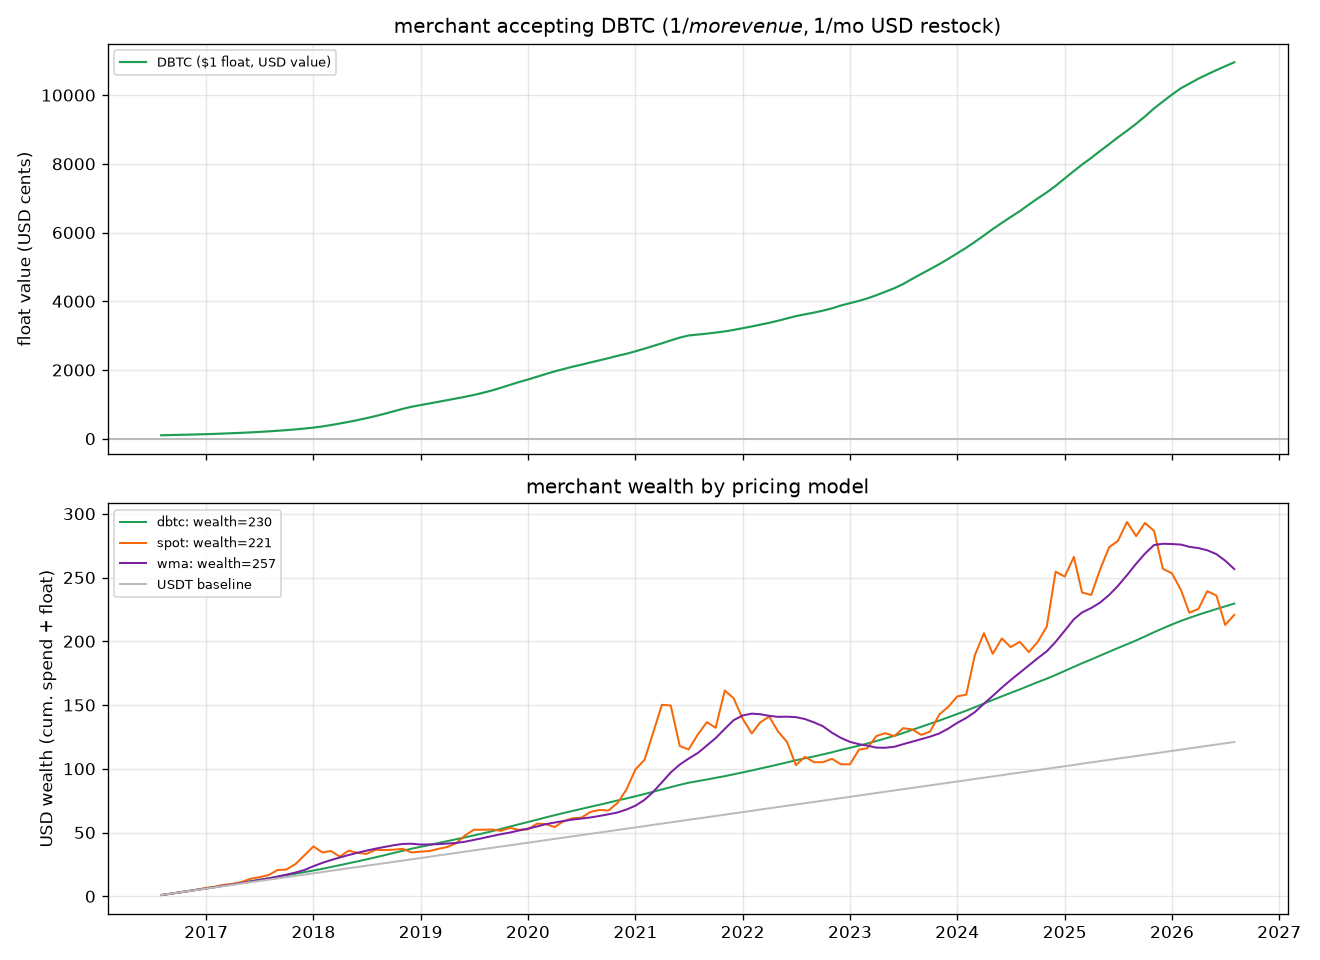
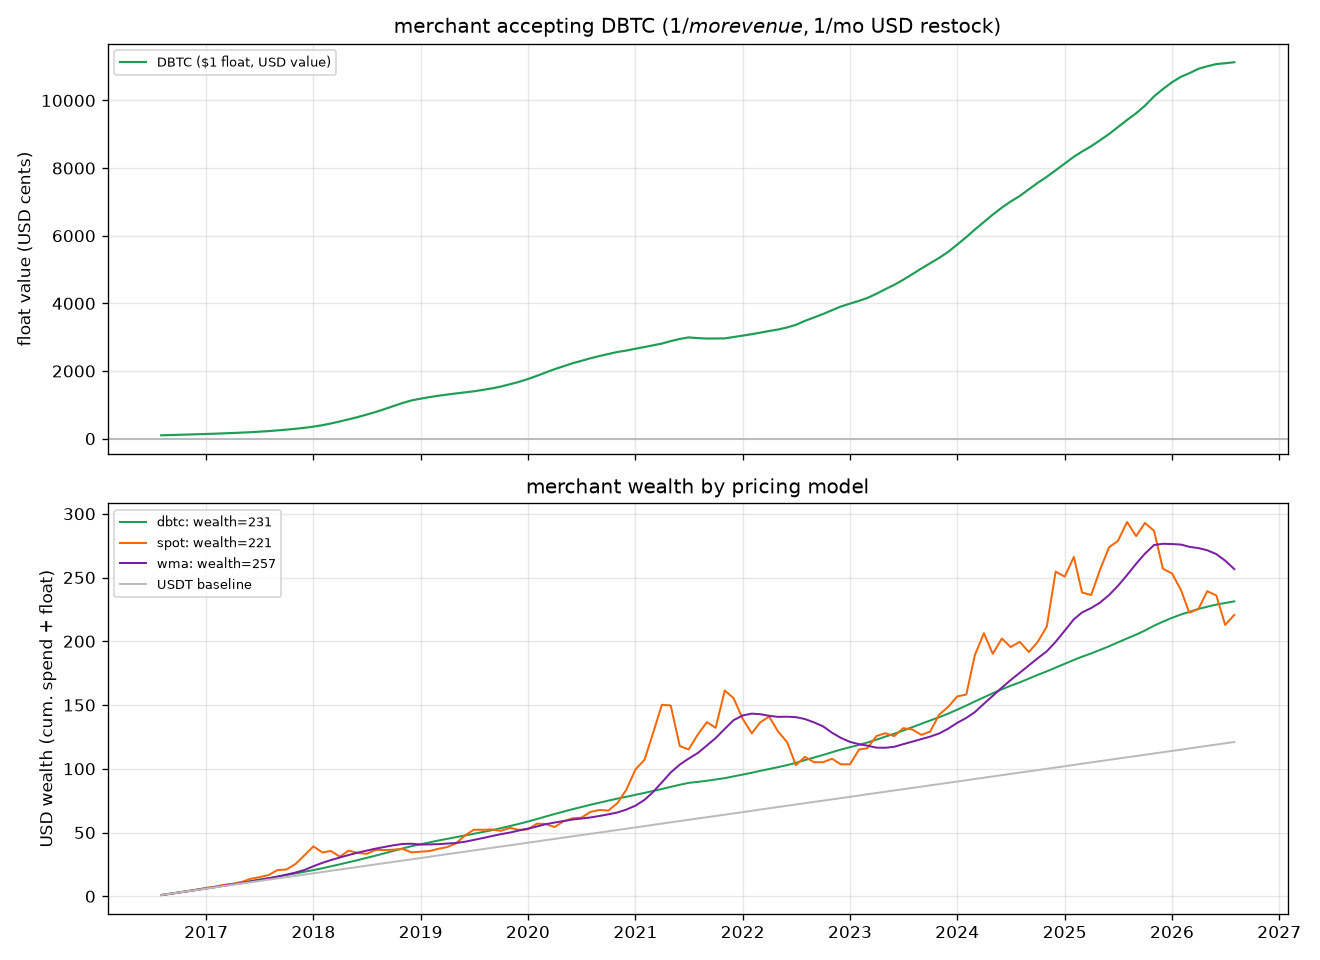
revert to 26 periods instead of 52

diff --git a/backtest.py b/backtest.py
@@ -259,7 +259,7 @@ def chart_merchant_window(df, since, b=0.73):
     return _save(fig, "08_merchant_window.png")
 
 
-def chart_window_vol_sweep(df, since, b, wrec: int = 52):
+def chart_window_vol_sweep(df, since, b, wrec: int = 26):
     """How DBTC's rolling volatility (and the liquidation-relevant tails) vary
     with the smoothing window W, against the 200wma (~SMA-1400) reference.
 
@@ -323,7 +323,7 @@ def chart_window_vol_sweep(df, since, b, wrec: int = 52):
                 xytext=(10, -22), textcoords="offset points", fontsize=9, color="k")
     a1.set_yscale("log")
     a1.set_ylabel("annualized vol (90d rolling, log)")
-    a1.set_title(f"DBTC rolling vol vs smoothing W — flat ~3–4% for any W; "
+    a1.set_title(f"DBTC rolling vol vs smoothing W — flat ~0.1–0.5% for any W; "
                  f"200wma ≈ {w200_med*100:.2f}% (trend vs range, not window-dependent)")
     a1.legend(fontsize=8, loc="upper right"); a1.grid(alpha=0.3, which="both")
 
@@ -338,14 +338,14 @@ def chart_window_vol_sweep(df, since, b, wrec: int = 52):
     a2.set_yscale("log")
     a2.set_ylabel("worst-case metric (log)")
     a2.set_xlabel("smoothing window W (difficulty periods)")
-    a2.set_title("wide W smooths the floors but deepens the spot/DBTC tail — W≈52p balances both")
+    a2.set_title("wide W smooths the floors but deepens the spot/DBTC tail — W≈26p balances both")
     a2.legend(fontsize=8, loc="upper right"); a2.grid(alpha=0.3, which="both")
 
     fig.tight_layout()
     p = _save(fig, "10_window_vol.png")
     print(f"\n[window vol sweep]  recommended W = {wrec}p ({wrec*14/365:.1f} yr); "
           f"200wma med vol = {w200_med*100:.2f}% vs DBTC med = "
-          f"{row_rec['vol_med'].iloc[0]*100:.2f}% (flat ~3-4% for any W)")
+          f"{row_rec['vol_med'].iloc[0]*100:.2f}% (flat ~0.1-0.5% for any W)")
     for _, r in R.iterrows():
         print(f"  W={int(r['W']):>4d}p  med vol={r['vol_med']*100:>6.2f}%  "
               f"priceDD={(1+r['price_dd']):>7.1%}  smDD={(1+r['gr_dd']):>7.1%}  "
@@ -383,8 +383,8 @@ def main() -> int:
                         help="launch date (default: today-Y years)")
     parser.add_argument("--since", default="2016-01-01",
                         help="data window used to fit & evaluate (default 2016-01-01, drops pre-2013 + 2013-15 drift)")
-    parser.add_argument("--smooth", type=int, default=52,
-                        help="difficulty smoothing window in periods of 2016 blocks (default 52 ≈ 2 years)")
+    parser.add_argument("--smooth", type=int, default=26,
+                        help="difficulty smoothing window in periods of 2016 blocks (default 26 ≈ 1 year)")
     parser.add_argument("--law-b", type=float, default=None,
                         help="override the fitted exponent b (default: auto-fit on --since)")
     parser.add_argument("--t0", default=None, help="deprecated; use --since")

diff --git a/dbtc/backtest.py b/dbtc/backtest.py
@@ -43,7 +43,7 @@ class ValueModel:
         self.series = self.series.sort_index()
 
 
-def build_value_models(df: pd.DataFrame, launch: str, diff_w: int = 52,
+def build_value_models(df: pd.DataFrame, launch: str, diff_w: int = 26,
                        wma_w: int = 350, a: float = FIT_A, b: float = FIT_B) -> dict[str, ValueModel]:
     """Return {name: ValueModel} for DBTC / wma(≈50w) / wma200 / spot from launch onwards.
 
@@ -152,7 +152,7 @@ def salary_cashflow(model: ValueModel, df: pd.DataFrame, launch: str,
     })
 
 
-def fit_law(df: pd.DataFrame, since: str, diff_w: int = 52) -> dict:
+def fit_law(df: pd.DataFrame, since: str, diff_w: int = 26) -> dict:
     """Fit the difficulty->price power law on data from ``since`` onwards.
 
     ``diff_w`` is the smoothing window in difficulty periods. Returns dict with
@@ -170,7 +170,7 @@ def fit_law(df: pd.DataFrame, since: str, diff_w: int = 52) -> dict:
     }
 
 
-def dbtc_series(df: pd.DataFrame, since: str, smooth: int = 52,
+def dbtc_series(df: pd.DataFrame, since: str, smooth: int = 26,
                 b: float | None = None) -> pd.Series:
     """DBTC price anchored to spot at ``since`` via difficulty^b.
 
@@ -186,7 +186,7 @@ def dbtc_series(df: pd.DataFrame, since: str, smooth: int = 52,
     return spot.iloc[0] * (sd / sd.iloc[0]) ** b
 
 
-def merchant_loss_metrics(df: pd.DataFrame, smooth: int = 52, since: str = "2014-01-01",
+def merchant_loss_metrics(df: pd.DataFrame, smooth: int = 26, since: str = "2014-01-01",
                           b: float | None = None) -> dict:
     """Merchant that prices goods in DBTC and pays USD costs monthly.
 
@@ -210,7 +210,7 @@ def merchant_loss_metrics(df: pd.DataFrame, smooth: int = 52, since: str = "2014
     }
 
 
-def collateral_metrics(df: pd.DataFrame, smooth: int = 52, since: str = "2014-01-01",
+def collateral_metrics(df: pd.DataFrame, smooth: int = 26, since: str = "2014-01-01",
                        b: float | None = None) -> dict:
     """Collateral ratio RBTC/DBTC and backing required never to liquidate.
 
@@ -243,7 +243,7 @@ def ratio_index(df: pd.DataFrame, since: str) -> pd.Index:
 
 def run_all(df: pd.DataFrame, launch: str, n_months: int = 120,
             float_months: int = 1, b: float | None = None,
-            smooth: int = 52) -> dict:
+            smooth: int = 26) -> dict:
     """Backtest all models x scenarios, return {key: summary}."""
     models = build_value_models(df, launch, a=0.0, b=(b or FIT_B), diff_w=smooth)
     out = {}

diff --git a/lending.py b/lending.py
@@ -60,8 +60,8 @@ def main() -> int:
     parser = argparse.ArgumentParser(description=__doc__)
     parser.add_argument("--since", default="2016-01-01",
                         help="anchor date for frozen constants (default 2016-01-01)")
-    parser.add_argument("--smooth", type=int, default=52,
-                        help="difficulty smoothing window in periods of 2016 blocks (recommended 52 ≈ 2 years)")
+    parser.add_argument("--smooth", type=int, default=26,
+                        help="difficulty smoothing window in periods of 2016 blocks (recommended 26 ≈ 1 year)")
     parser.add_argument("--collat", type=float, default=3.0,
                         help="collateral ratio (recommended 3.0)")
     parser.add_argument("--law-b", type=float, default=None,

diff --git a/dbtc/analyze.py b/dbtc/analyze.py
@@ -21,7 +21,7 @@ import pandas as pd
 WINDOWS_PERIODS = [1, 2, 4, 6, 8, 13, 20, 26, 39, 52, 78, 104]
 
 # Default smoothing window: 26 difficulty periods (≈ one year).
-DEFAULT_WINDOW = 52
+DEFAULT_WINDOW = 26
 
 # Default reference: 2010-07-18 is the first day with a nonzero price.
 DEFAULT_T0 = "2010-07-18"

diff --git a/README.md b/README.md
@@ -61,7 +61,7 @@ Fit (full-sample, best window):
 
 Now smoothing windows are measured in **difficulty periods** (2016 blocks, ~2 weeks
 each) instead of calendar days — the same unit the reference contract uses. 26 periods
-≈ 1 year; the flagship default is 52 periods ≈ 2 years (see below).
+≈ 1 year; the flagship default is 26 periods ≈ 1 year (see below).
 
 | smoothing | corr | R² | slope b | median \|err\| |
 |-----------|------|-----|---------|----------------|
@@ -118,7 +118,7 @@ annualised volatility of all four (log scale):
 
 **The headline result:** DBTC is dramatically *smooth*. Rolling vol peaks in the
 early 2012–2015 era at ~10–20% for all series, but after ~2018 DBTC sits reliably
-**at ~0.1–0.5%** (block-interpolated, `--smooth 52`) while spot and even the 50w/200w SMAs
+**at ~0.1–0.5%** (block-interpolated, `--smooth 26`) while spot and even the 50w/200w SMAs
 swing 30–80%. DBTC's daily moves stay tiny because the block-window mean drifts
 continuously — the old retarget-day step (~2.8% single-day jump) is gone — so it is a
 genuine ultra-low-vol stable accounting unit — at the cost of trailing spot's returns.
@@ -134,9 +134,9 @@ A business that passes revenue straight through (prices in USD, restocks in USD 
 has only its working-capital buffer exposed. Top panel: the $1 float's USD value. Bottom:
 cumulative wealth vs USDT baseline.
 
-Key figure: **DBTC** holds the float's max drawdown at only **0.0%** vs **−75%** for
+Key figure: **DBTC** holds the float's max drawdown at only **−1.1%** vs **−75%** for
 spot (the 50w SMA anchor sits between at −54%). A monthly-converted merchant is effectively
-neutral-to-mildly-positive, because DBTC is monotonic since 2016 while barely ever drawing down
+neutral-to-mildly-positive, because DBTC barely ever draws down
 (`05_float_sensitivity.png` shows bigger floats magnify both win and risk).
 
 ### Salary: a worker paid fixed DBTC/month
@@ -144,7 +144,7 @@ neutral-to-mildly-positive, because DBTC is monotonic since 2016 while barely ev
 ![salary panel](out/backtest/03_salary.png)
 
 A yearly-re-signing salary lands at **~1.3x USDT** — DBTC behaves like a gently-upward,
-low-vol USDT (income std ~0.3 $/mo). A fixed lead contract captures the underlying asset
+low-vol USDT (income std ~0.4 $/mo). A fixed lead contract captures the underlying asset
 appreciation, but inherits its full swings. `06_cumulative.png` collapses this to cumulative
 multiple-vs-USDT across the four model×renewal combos.
 
@@ -165,77 +165,78 @@ max daily move ≈ 0.4% and rolling 90d vol of **~0.1%**.
 
 | W (periods) | ~years | median 90d vol | DBTC price max DD | smooth-diff max DD (floor) | min spot/DBTC |
 |-------------|--------|----------------|-------------------|----------------------------|---------------|
-| 13p | 0.5 | 0.47% | −9.8% | −15.0% | 0.35 |
-| 26p | 1.0 | 0.21% | −1.0% | −1.7% | 0.37 |
-| **52p** | **2.0** | **0.12%** | **0.0%** | **0.0%** | **0.34** |
-| 78p | 3.0 | 0.09% | 0.0% | 0.0% | 0.33 |
-| 104p | 4.0 | 0.08% | 0.0% | 0.0% | 0.32 |
+| 13p | 0.5 | 0.46% | −10.2% | −15.0% | 0.30 |
+| **26p** | **1.0** | **0.22%** | **−1.2%** | **−1.7%** | **0.32** |
+| 52p | 2.0 | 0.13% | 0.0% | 0.0% | 0.29 |
+| 78p | 3.0 | 0.09% | 0.0% | 0.0% | 0.28 |
+| 104p | 4.0 | 0.08% | 0.0% | 0.0% | 0.28 |
 
 Block interpolation flattens the story:
 
 - **Vol & floors improve monotonically with W** — at 26p DBTC's 90d vol is already *below*
-  the 200wma (0.21% vs 0.19%); at 52p+ the price has **no historical drawdown at all**
+  the 200wma (0.22% vs 0.19%); at 52p+ the price has **no historical drawdown at all**
   (worst smoothed-difficulty drawdown ≈ 0.0%), i.e. effectively monotonic. There is no
   longer a "too big W" penalty on the difficulty side.
 - **The spot/DBTC tail is the only thing that gets worse** with W — a wider, flatter window
-  stands further above the market at a spot crash (min `spot/DBTC` falls 0.37 → 0.32), and
+  stands further above the market at a spot crash (min `spot/DBTC` falls 0.32 → 0.28), and
   that is what sets the collateral requirement, not difficulty itself.
 
-**Recommendation: W = 52p (≈ 2 years).** It gives sub-200wma volatility (0.12% vs 0.19%),
-a fully monotonic price since 2016 (0.0% drawdown), and keeps the spot/DBTC tail at a
-tolerable 0.34. Wide enough that retarget steps wash out, narrow enough that the window
-still tracks the difficulty trend rather than a flat average.
+**Recommendation: W = 26p (≈ 1 year).** It gives sub-200wma volatility (0.22% vs 0.19%) with
+only a −1.7% worst-ever smoothed-difficulty drawdown since 2016, and keeps the spot/DBTC
+tail at its best (min 0.32, the fewest collateral needed). It's the fastest window that
+still washes out retarget steps, so the price responds to the difficulty trend with the
+least lag — a one-year lookback rather than two.
 
 ```bash
-./.venv/bin/python backtest.py          # defaults to --smooth 52 → prints the sweep + 10_window_vol.png
+./.venv/bin/python backtest.py          # defaults to --smooth 26 → prints the sweep + 10_window_vol.png
 ```
 
 ### Collateral & liquidation (`lending.py`)
 
 The vault's liquidation trigger is **pure difficulty**: you're liquidated when smoothed
-difficulty falls to `(1/CR)^(1/b)` of its mint-time level (≈ −18% at CR=3). With
-block-interpolated smoothing the last-since-2016 worst cases become tiny by ~2y windows:
+difficulty falls to `(1/CR)^(1/b)` of its mint-time level (≈ −19.5% at CR=3). With
+block-interpolated smoothing the worst cases become tiny by ~1y windows:
 
 | smoothing W | worst month | worst 12-mo | months < launch | max price DD |
 |-------------|-------------|--------------|-----------------|--------------|
-| 13p | −3.1% | +3.5% | 0% | −9.8% |
-| 26p | −0.6% | +11.0% | 0% | −1.0% |
-| **52p** | **+0.4%** | **+18.8%** | **0%** | **0.0%** |
-| 39p | 0.0% | +15.3% | 0% | 0.0% |
-| 78p | +0.7% | +24.3% | 0% | 0.0% |
+| 13p | −3.3% | +3.7% | 0% | −10.2% |
+| **26p** | **−0.6%** | **+11.5%** | **0%** | **−1.2%** |
+| 39p | 0.0% | +16.1% | 0% | 0.0% |
+| 52p | +0.4% | +19.7% | 0% | 0.0% |
+| 78p | +0.7% | +25.6% | 0% | 0.0% |
 
-At 52p the smoothed-difficulty path since 2016 never draws down (monotonic), so the pure
-difficulty floor **never comes close**. The real risk is the **spot/difficulty spread**: at
-the worst point spot/DBTC fell to ≈0.34× while smoothed difficulty kept climbing. That
-deviation — not difficulty — sets the collateral requirement:
+At 26p the smoothed-difficulty path since 2016 barely ever draws down (worst −1.7%,
+`2021-08`), so the pure difficulty floor never comes close. The real risk is the
+**spot/difficulty spread**: at the worst point spot/DBTC fell to ≈0.32× while smoothed
+difficulty kept climbing. That deviation — not difficulty — sets the collateral requirement:
 
 ![collateral ratio over time](out/backtest/09_collateral_ts.png)
 
 Across W (`07_w_sweep.png`, `08_merchant_window.png`): 26p+ keeps worst-month drawdowns
 ≤ ~1%, and the never-liquidation backing is driven by how much *smooth* `spot/DBTC`
-diverges. Anchored 2016 you need `≈2.9x` backing for "never" at 52p (more at 78/104p as
-the window drifts further from the 2016 anchor); the switch is that "never" depends
+diverges. Anchored 2016 you need `≈3.1x` backing for "never" at 26p (fewer than at 52/78p —
+the tighter window tracks spot more closely); the switch is that "never" depends
 sensitively on the *anchor epoch*, because difficulty's *level* can drift relative to spot
 (see table + charts at `07_w_sweep.png`, `08`).
 
-Run: `./.venv/bin/python backtest.py --since 2016-01-01 --smooth 52` — prints all metrics.
+Run: `./.venv/bin/python backtest.py --since 2016-01-01 --smooth 26` — prints all metrics.
 
 ## `lending.py` — live protocol numbers
 
-Frozen defaults: `--since 2016-01-01`, `--smooth 52` (periods), `--law-b` auto-fitted
-≈0.64, `--collat 3.0`. Once frozen, USD is never consulted at runtime; every number below
+Frozen defaults: `--since 2016-01-01`, `--smooth 26` (periods), `--law-b` auto-fitted
+≈0.67, `--collat 3.0`. Once frozen, USD is never consulted at runtime; every number below
 is difficulty arithmetic.
 
-1. **Mint** — per 1 locked BTC, `mint = (D_ratio)^b / CR`. Today ≈ **62.8 DBTC/BTC**
-   (`D_s ratio ≈ 3,405`, `b ≈ 0.644`, `CR=3`).
-2. **Liquidation** — pure-difficulty floor at `(1/CR)^(1/b) ≈ 18.2%` of mint difficulty:
-   since 2016 the 52p-smoothed difficulty has **never drawn down** (monotonic), so the
-   floor is nowhere near being hit. The binding tail is the USD view: the `2020-03-13`
-   spot crash was the worst *spot/DBTC* deviation (min ≈ 0.34) → at CR=3 that leaves only
-   ~+3% margin; at CR=2.5 it's _negative_ — the thin spot deviation, not difficulty, is the
+1. **Mint** — per 1 locked BTC, `mint = (D_ratio)^b / CR`. Today ≈ **65.4 DBTC/BTC**
+   (`D_s ratio ≈ 2,549`, `b ≈ 0.673`, `CR=3`).
+2. **Liquidation** — pure-difficulty floor at `(1/CR)^(1/b) ≈ 19.5%` of mint difficulty:
+   since 2016 the 26p-smoothed difficulty's worst drawdown was **−1.7%** (`2021-08`), so
+   the floor is nowhere near being hit. The binding tail is the USD view: the `2020-03-13`
+   spot crash was the worst *spot/DBTC* deviation (min ≈ 0.32) → at CR=3 that leaves only
+   ~−5% margin; at CR=2.5 it's _negative_ — the thin spot deviation, not difficulty, is the
    real risk.
 3. **USD value** — `SmoothUSD = P0 × D_ratio^b` with `P0` frozen once at the anchor
-   (P0 ≈ $494, today ≈ $93k), purely difficulty-driven thereafter.
+   (P0 ≈ $456, today ≈ $89.7k), purely difficulty-driven thereafter.
 4. **Prices** — `out/lending_price.png` shows 30-day & 12-month DBTC/USD and the
    difficulty ratio vs its floor (`./.venv/bin/python lending.py`)
 
@@ -254,8 +255,8 @@ DBTC per BTC = (D_s / D_s0)^b        BTC per DBTC = 1 / (D_s / D_s0)^b     (CR =
 ```
 
 - **It smooths exactly like the Python model** (`analyze.sliding_smoothed_diff`). `D_s` is
-  the mean difficulty over the trailing `window × 2016` **blocks** (default `window = 52`
-  ≈ 2 years), computed by *block interpolation*: the newest period counts its partial
+  the mean difficulty over the trailing `window × 2016` **blocks** (default `window = 26`
+  ≈ 1 year), computed by *block interpolation*: the newest period counts its partial
   blocks, the oldest period is filled to reach exactly `window × 2016`, and every interior
   period counts a full 2016. The window slides one block at a time, so the price drifts
   continuously and has no retarget-day jump — the same weighted-mean the Python side
@@ -282,8 +283,9 @@ solc --bin --optimize contracts/DBTCPrice.sol   # compiles with solc 0.8.25
 
 - **DBTC is a stable-ish, difficulty-anchored accounting unit** — ~50–200× lower vol than
   spot since ~2016, difficulty-derived (no external price feed required to compute).
-  At 52-period block interpolation the smoothed difficulty since 2016 has **no drawdown**
-  (monotonic), so it is genuinely low-vol — but the *level* can still drift relative to
+  At the 26-period block-interpolated default the smoothed difficulty since 2016 has
+  barely drawn down (worst −1.7%), and wider windows remove it entirely — so it is
+  genuinely low-vol — but the *level* can still drift relative to
   spot (see collateral tables).
 - It is **not** a get-wealthy instrument: over a bull decade margins clearly trail spot
   (`04_table.png`, `06_cumulative.png`). The pitch is *low-volatile stable pricing*, not
@@ -307,5 +309,5 @@ contracts/DBTCPrice.sol      # reference Rootstock oracle (diff → DBTC/BTC, se
 contracts/libraries/FixedPointMath.sol  # 64.64 fixed-point pow for the ^b law
 data/                    # cached blockchain.info JSON (auto-refreshed)
 out/*.png                # committed charts referenced by this README
-out/backtest/10_window_vol.png   # W-sweep → the 52-period default (see "Choosing the window")
+out/backtest/10_window_vol.png   # W-sweep → the 26-period default (see "Choosing the window")
 ```
